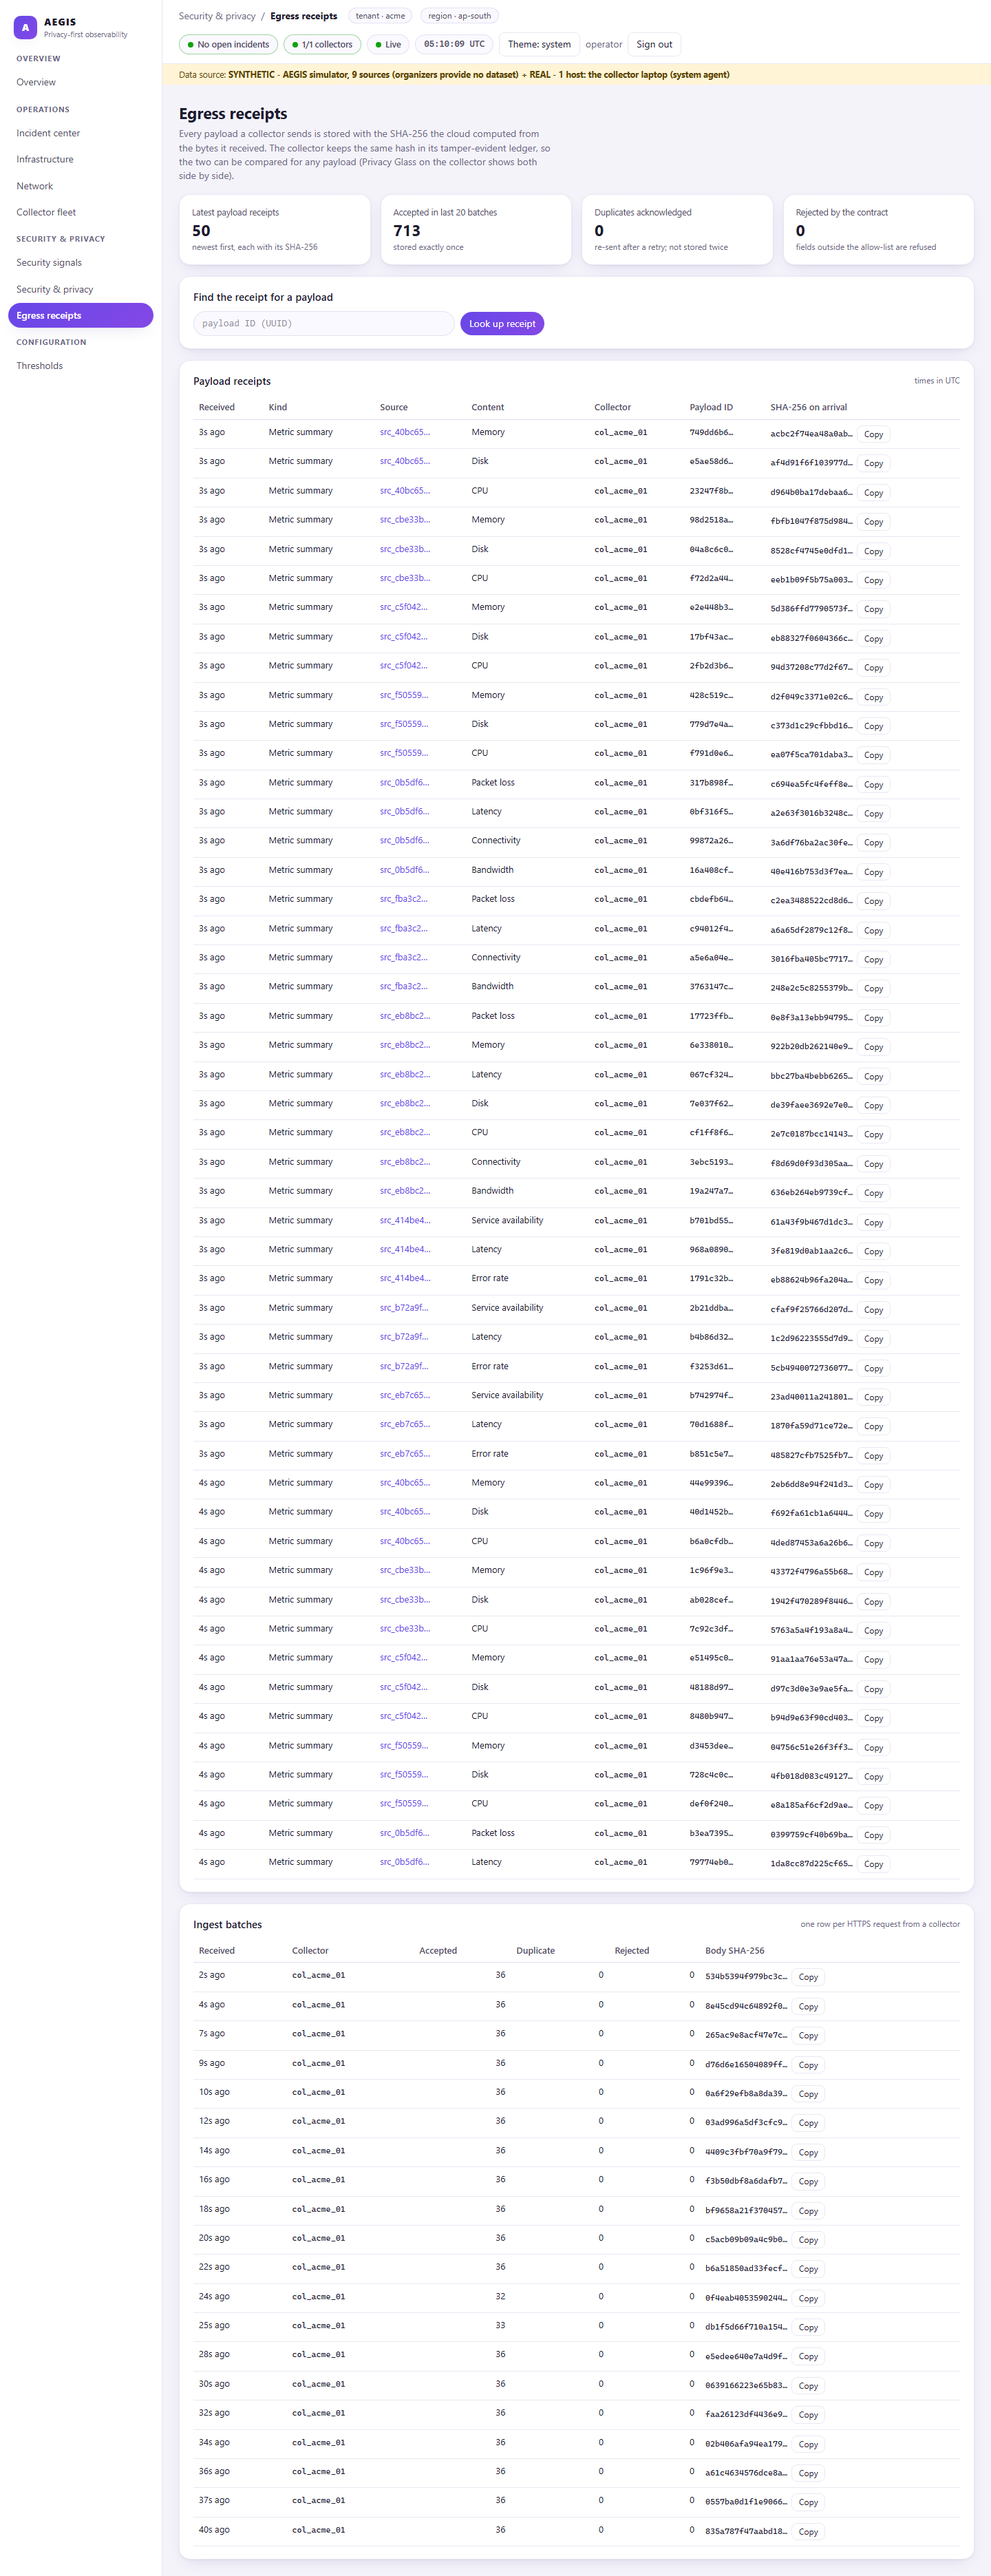
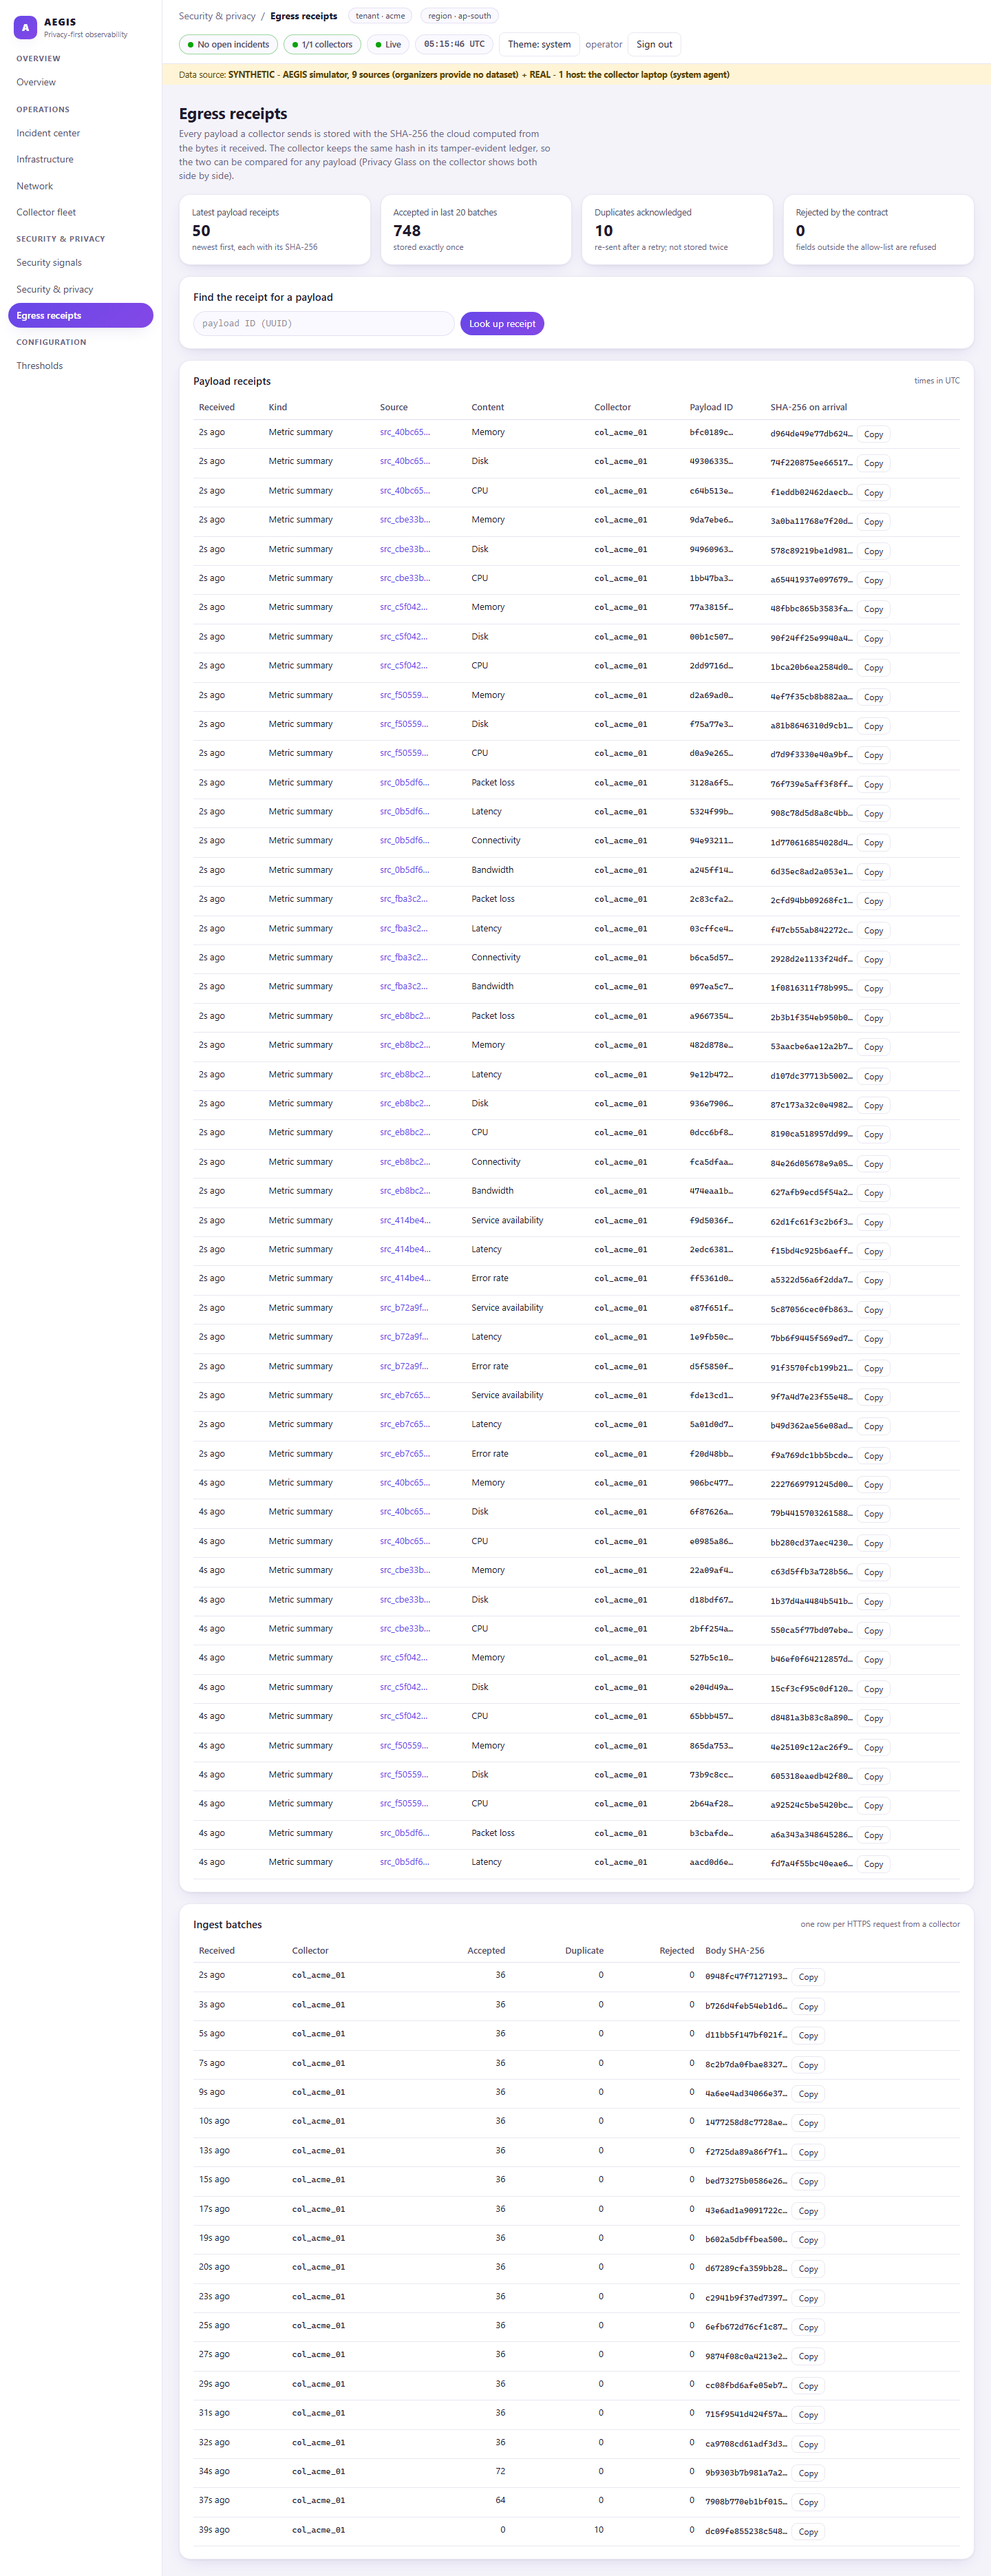
Polish live (b1be455): e2e 13/13, preview pane verified; refreshed screenshots

diff --git a/apps/web/e2e/live.spec.ts b/apps/web/e2e/live.spec.ts
@@ -115,6 +115,7 @@ test('@live AI engine: a new baseline-deviation incident appears WITHOUT reload'
   await page.getByRole('button', { name: 'Open' }).click()
   const row = page.getByRole('row', { name: /Baseline deviation on server .*cpu_usage/ }).first()
   await expect(row).toBeVisible({ timeout: 200_000 })
+  await expect(page.getByText(/^Blast radius · \d+ sources?$/)).toBeVisible({ timeout: 20_000 }) // preview pane loaded
   await page.screenshot({ path: `${SHOTS}/incident-center.png`, fullPage: true })
   await row.getByRole('link').click()
   await expect(page.getByRole('heading', { name: 'Probable cause' })).toBeVisible()

diff --git a/docs/TEST_RESULTS.md b/docs/TEST_RESULTS.md
@@ -115,3 +115,4 @@
 | 8 | **Live Playwright on backend + dashboard 3f43a73 (K36 fixed), demo stopped: 12/12** incl. new K36 timing test (first summary response 3,898 ms, KPI card 3,947 ms after navigation start, limit 5 s; previously 6,322 ms) and the AI-engine incident test (passed; the earlier miss did not recur) | PASSED (2026-11-21 ~10:15 IST) | `scripts/e2e_live.py`, screenshots |
 | 8 | **Step 2 (design)**: receipts API (hash = sha256 of the contract JSON, newest first, batch counts, tenant isolation, session required); graph layout (levels, roles, no overlap, duplicate/unrelated edges, cycles, no-source incidents); two-pane filters/counts/one-link-per-row/preview; receipts page sums + lookup validation; graph rendered as figure, never role=img. Gate 246/246 normal and CI parity, web 29/29 | PASSED | `test_collector_receipt.py`, `ui.test.tsx` (5 new) |
 | 8 | **Live Playwright on backend + dashboard 40b010e (step 2), demo stopped: 13/13** incl. new egress-receipts test (real 64-hex hashes, batches present) and K36 timing (KPI card 3.9 s). Screenshots reviewed: investigation graph marks the probable cause with dependent above and upstream below; receipts page shows 50 receipts, 713 accepted / 0 duplicate / 0 rejected; two-pane incident center with real counts (preview still loading at capture). Polish found: numeric headers misaligned, small graphs over-scaled (fixed, pending deploy) | PASSED | `scripts/e2e_live.py`, `egress-receipts.png`, `incident-detail-ai.png`, `incident-center.png` |
+| 8 | **Live Playwright on dashboard b1be455 (polish): 13/13**; e2e now waits for the incident preview pane before the screenshot: probable cause, evidence strength, blast radius and correlated signal (79.8 % vs median 35.0 %, z 30.2) verified live | PASSED | `scripts/e2e_live.py`, `incident-center.png` |
